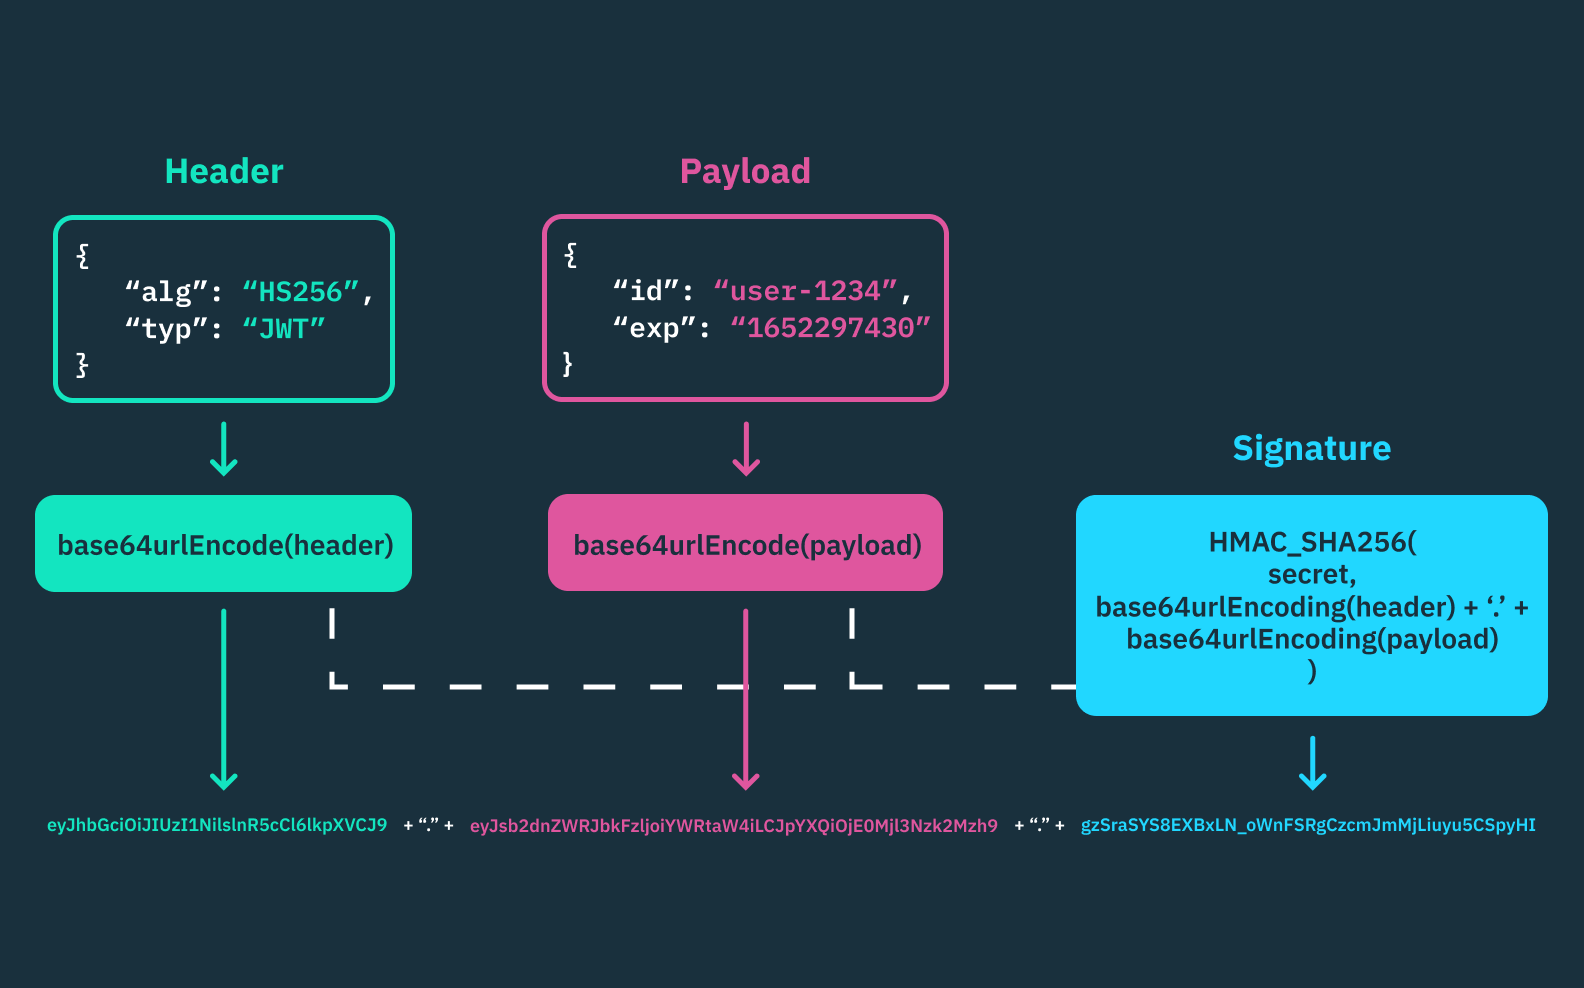
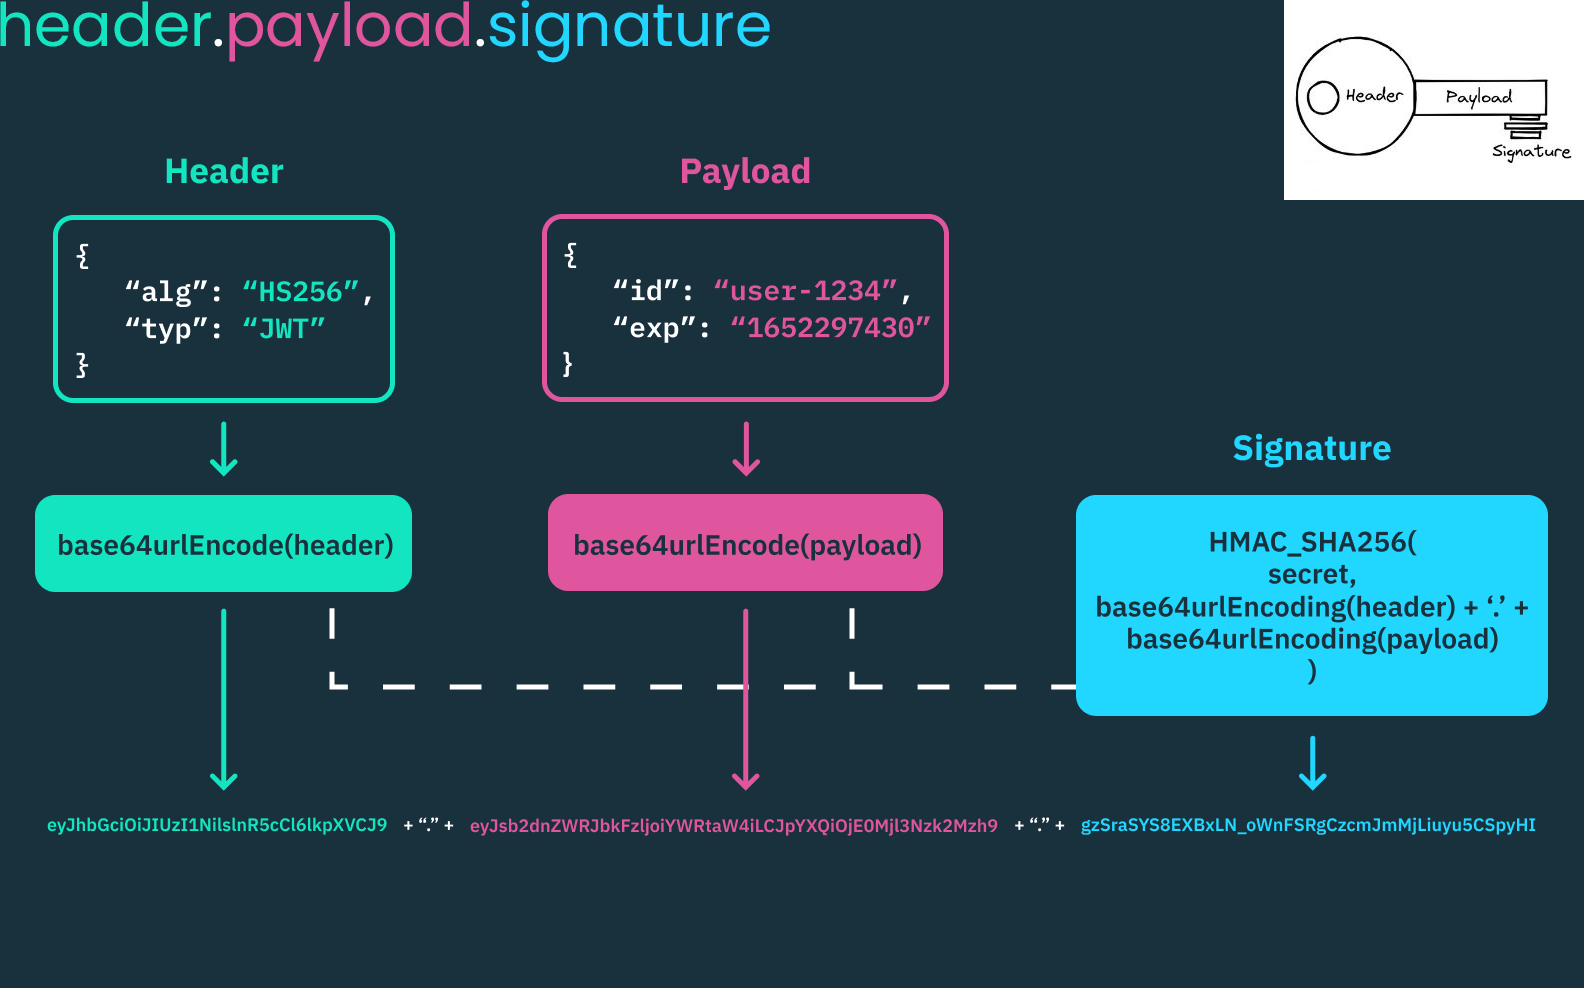
mise à jour JWT

Changed region(s): [[0.8043, 0.0, 1.0, 0.2126], [0.0, 0.0, 0.4949, 0.0607]]

diff --git a/JWT_guide.md b/JWT_guide.md
@@ -46,7 +46,7 @@ Voici un exemple de JWT :
 ## Exemple pratique
 
 
-
+![Fonctionnement](https://github.com/Ariales0/gestion-plancher-mobile/blob/iteration-Visuel-steve/src/assets/images/JWT_guide/exemple-login.jpg)
 
 
 ## Conclusion
